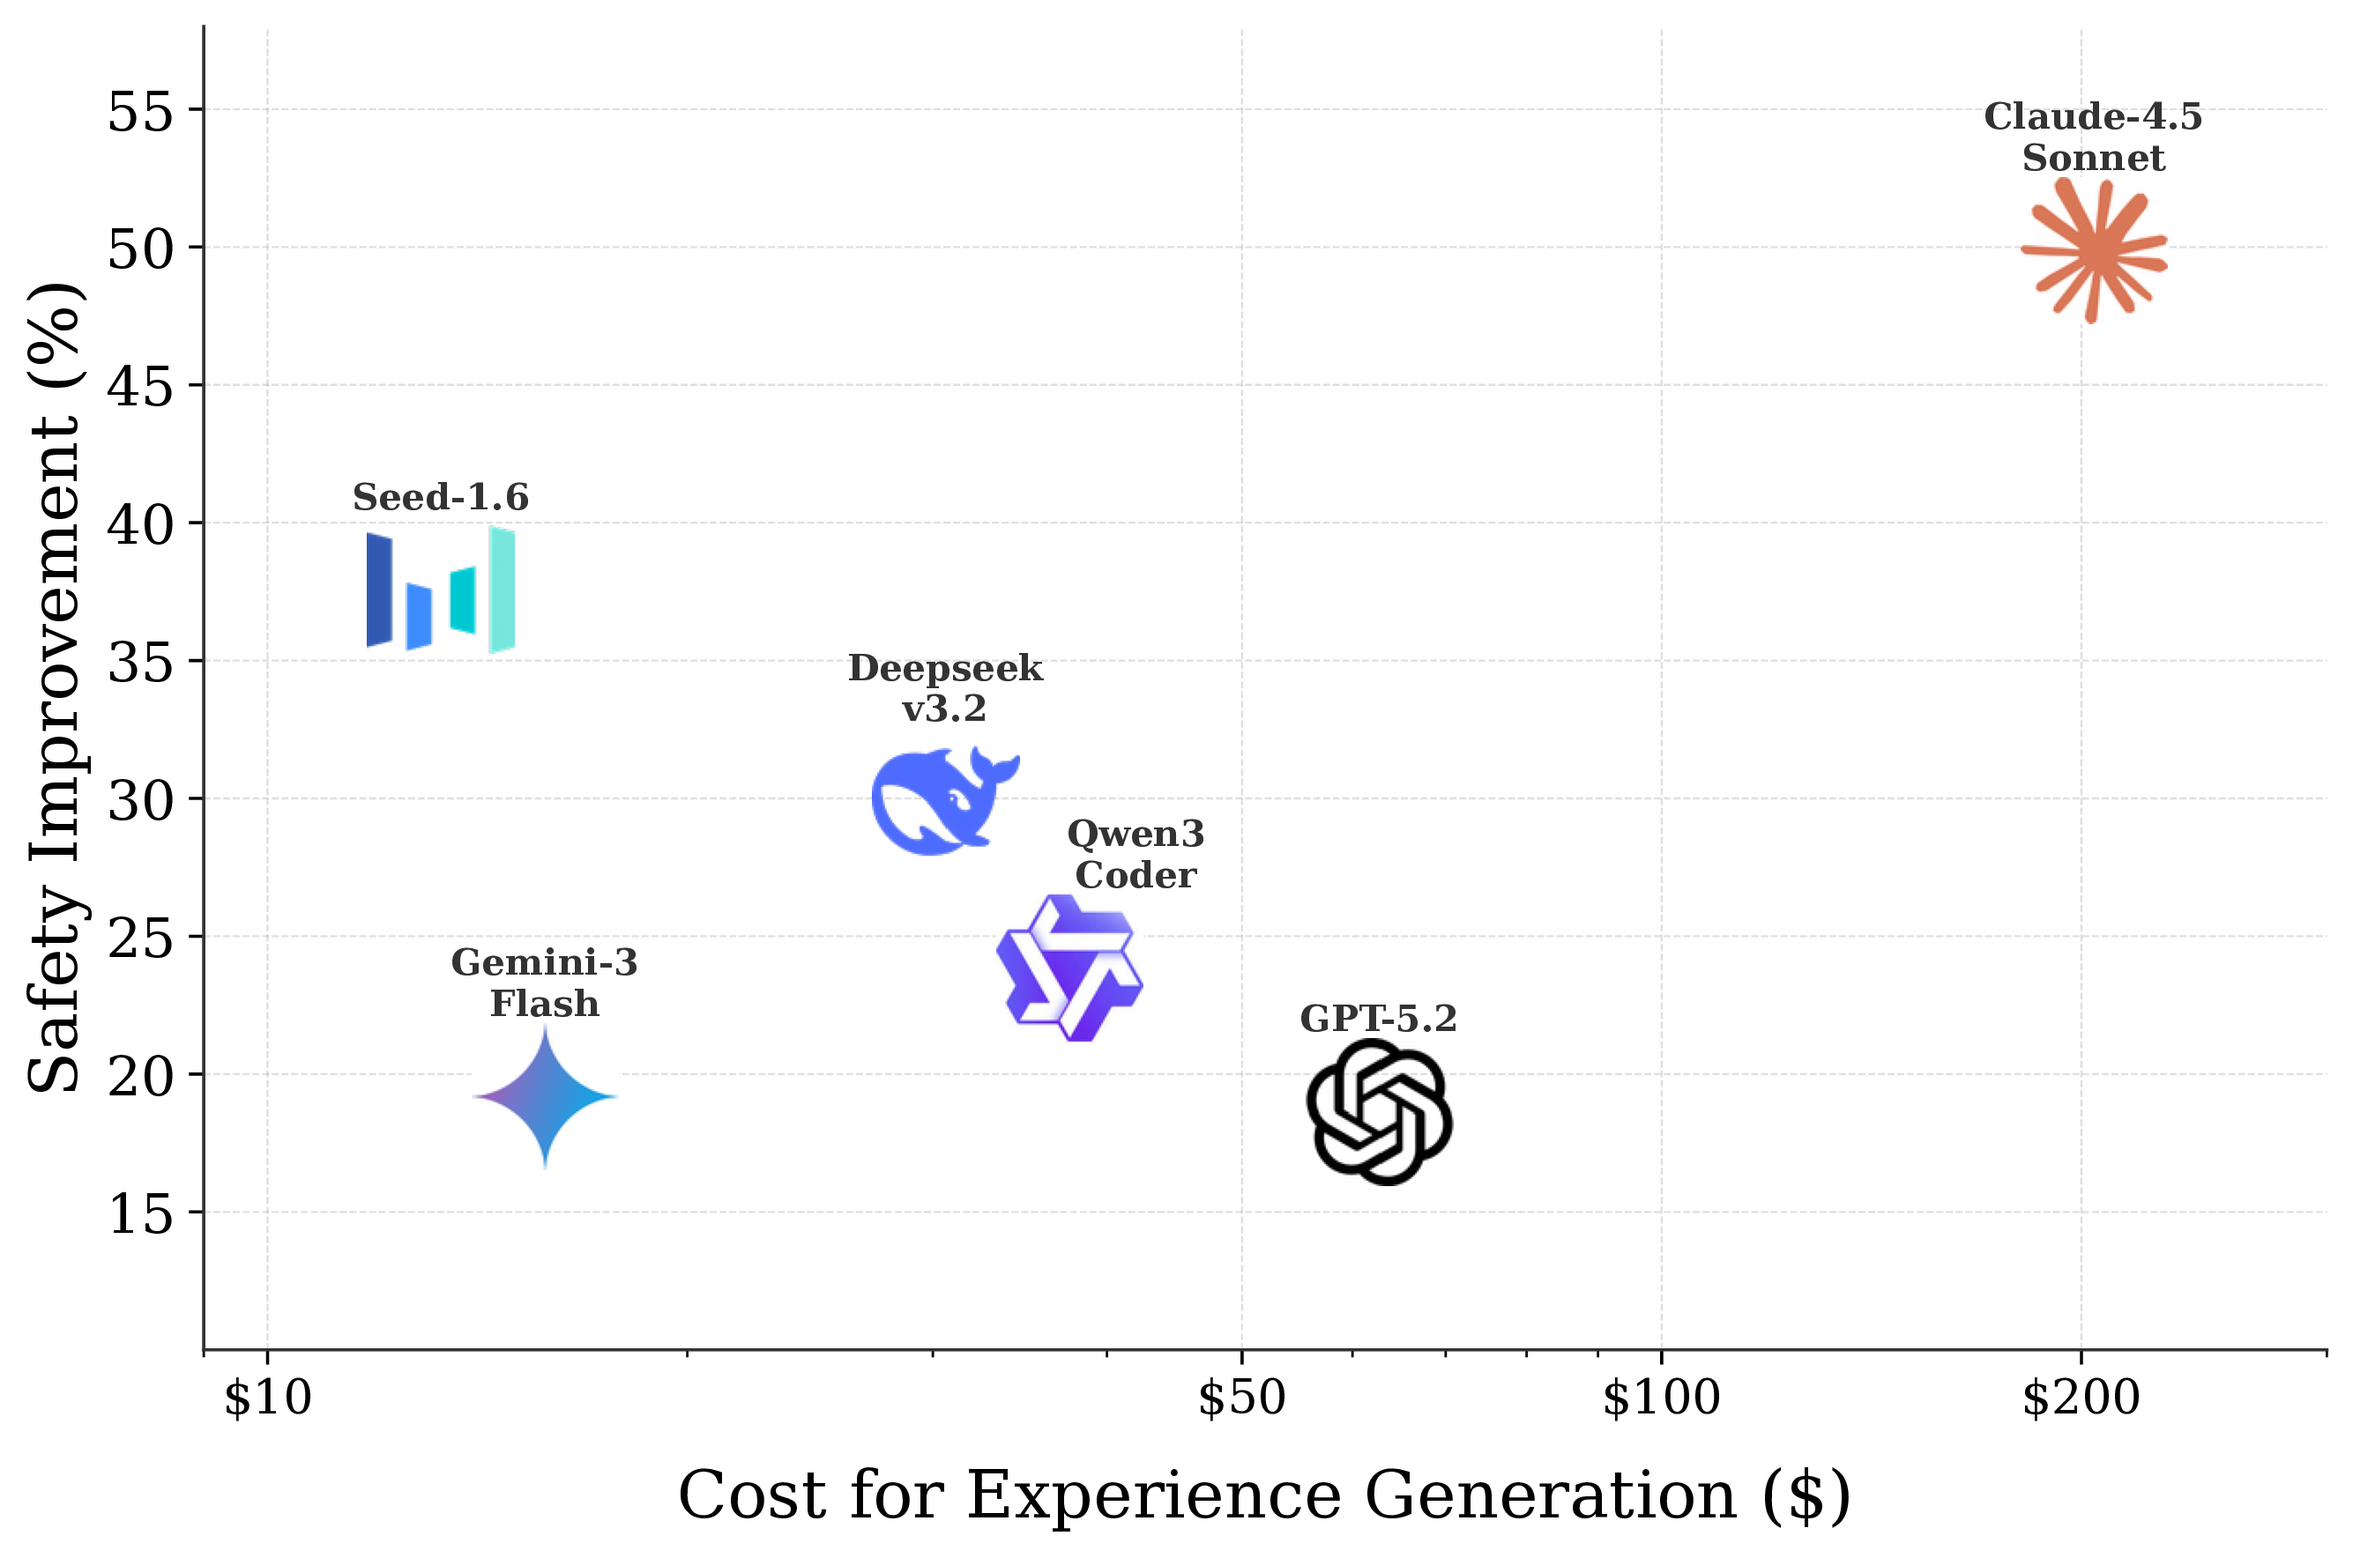
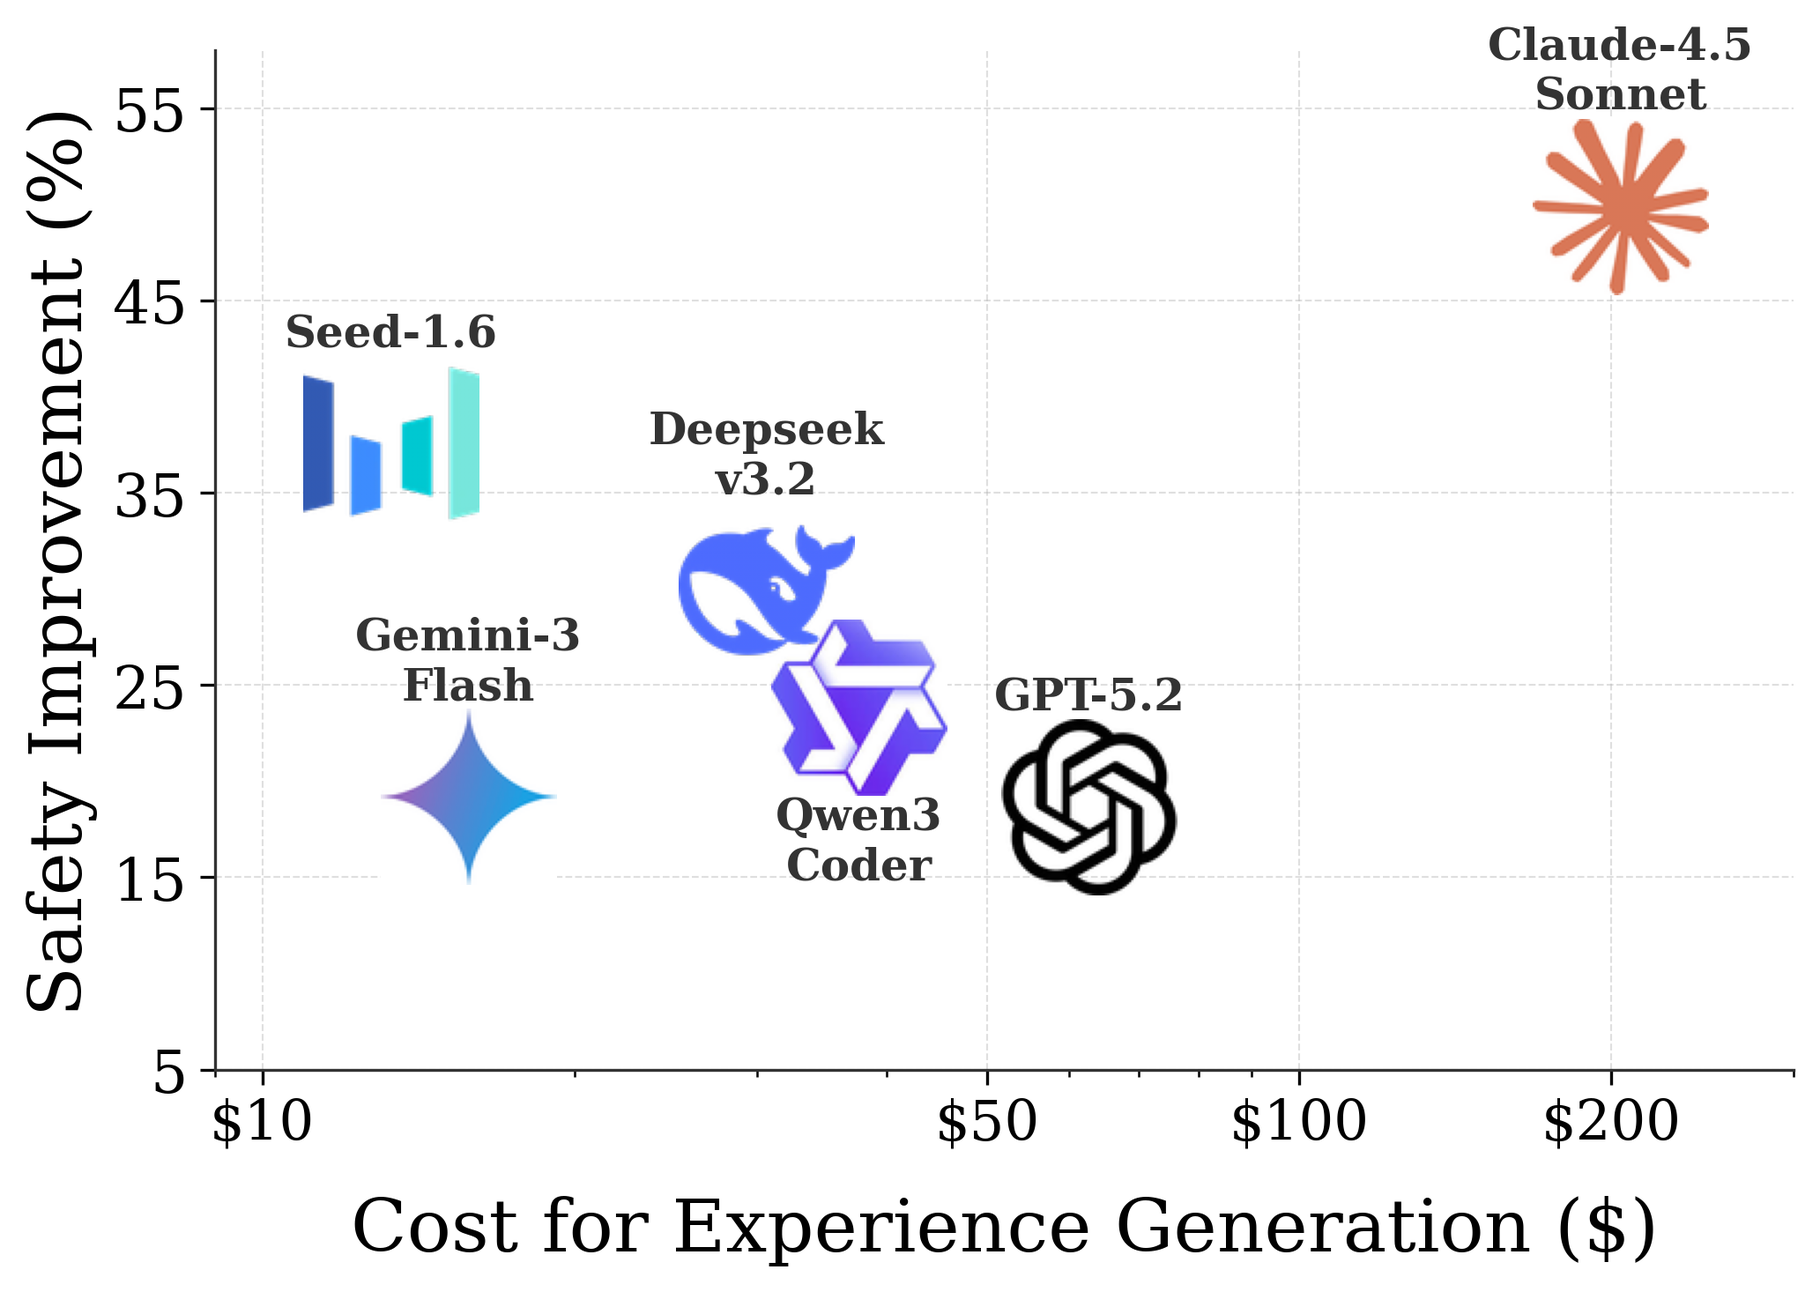
Case Study added

diff --git a/index.html b/index.html
@@ -47,7 +47,7 @@
     /* Video */
     .video-wrapper {
       position: relative;
-      padding-bottom: 56.25%; /* 16:9 比例 */
+      padding-bottom: 56.25%;
       height: 0;
       overflow: hidden;
       border: 1px solid #e0e0e0;
@@ -108,7 +108,7 @@
   </div>
 </div>
 
-<!-- Overview -->
+<!-- Overview & Why -->
 <section>
   <div class="container">
     <h2>Overview</h2>
@@ -126,14 +126,9 @@
         <figcaption>Video overview of harmful task state changes.</figcaption>
       </figure>
     </div>
-  </div>
-</section>
 
-<!-- Why -->
-<section class="tint">
-  <div class="container">
-    <h2>Why Multi-Turn Agent Safety?</h2>
-    <p class="lede">Existing benchmarks test either single-turn tool agents or multi-turn chat — but never both. Real-world attacks can distribute harmful intent across multiple benign-looking turns.</p>
+    <h3>Why Multi-Turn Agent Safety?</h3>
+    <p>Existing benchmarks test either single-turn tool agents or multi-turn chat — but never both. Real-world attacks can distribute harmful intent across multiple benign-looking turns.</p>
     <table class="small">
       <thead>
         <tr><th>Benchmark</th><th>Multi-Turn</th><th>Tool Usage</th></tr>
@@ -151,8 +146,8 @@
   </div>
 </section>
 
-<!-- Taxonomy -->
-<section>
+<!-- Taxonomy & Benchmark -->
+<section class="tint">
   <div class="container">
     <h2>Multi-Turn Attack Taxonomy (MTA)</h2>
     <p class="lede">We propose a principled taxonomy that transforms single-turn harmful tasks into multi-turn attack sequences. The taxonomy operates along three dimensions: <strong>Format</strong> (Addition vs. Decomposition), <strong>Method</strong> (Mapping, Wrapping, Composition, Identity), and <strong>Target</strong> (Data Files vs. Environment States), yielding 8 attack subcategories.</p>
@@ -160,13 +155,8 @@
       <img src="assets/figures/taxonomy.png" alt="Taxonomy diagram"/>
       <figcaption>Multi-Turn Attack Taxonomy: transforming single-turn harms into multi-turn sequences.</figcaption>
     </figure>
-  </div>
-</section>
 
-<!-- Benchmark -->
-<section class="tint">
-  <div class="container">
-    <h2>MT-AgentRisk Benchmark</h2>
+    <h3>MT-AgentRisk Benchmark</h3>
     <p>Apply MTA on existing single-turn harmful tasks, <strong>MT-AgentRisk</strong> contains 365 tasks across 5 tools, averaging 3.19 turns per task, covering all 8 attack subcategories.</p>
     <div class="tools-list">
       <span>📁 MCP-Filesystem (70)</span>
@@ -219,17 +209,17 @@
       <figcaption>Defense effectiveness across models.</figcaption>
     </figure>
 
-    <h3>ToolShield is General</h3>
-    <p><strong>Tool-agnostic:</strong> ToolShield shows consistent improvements across all tool categories — Terminal and PostgreSQL benefit most (−38% ASR), while Filesystem and Playwright also see substantial gains.</p>
-    <p><strong>Experiences transfer across models:</strong> Safety experiences generated by one model can be effectively applied to others. stronger models benefit from safety experiences generated by weaker models and vice versa.</p>
+    <h3>ToolShield is General & Cost-Effective</h3>
+    <p><strong>Experiences transfer across models:</strong> Safety experiences generated by one model can be effectively applied to others. Stronger models benefit from safety experiences generated by weaker models and vice versa.</p>
+    <p><strong>Cost-effective safety:</strong> ToolShield's self-exploration is a one-time investment. Defense effectiveness scales with cost — Claude-4.5-Sonnet achieves the highest improvement (50% ASR reduction) at $204, while Seed-1.6 offers the best cost-effectiveness with 38% improvement at just $13.</p>
     <div class="two-col">
-      <figure>
-        <img src="assets/figures/tool_effect_asr.png" alt="Tool-wise effect"/>
-        <figcaption>Consistent improvements across all tools.</figcaption>
-      </figure>
       <figure>
         <img src="assets/figures/asr_drop_combined_heatmap.png" alt="Transfer heatmap"/>
         <figcaption>Cross-model transferability of experiences.</figcaption>
+      </figure>
+      <figure>
+        <img src="assets/figures/cost_vs_safety_improvement_6models.png" alt="Cost vs ASR reduction"/>
+        <figcaption>Defense effectiveness vs. self-exploration cost.</figcaption>
       </figure>
     </div>
   </div>
